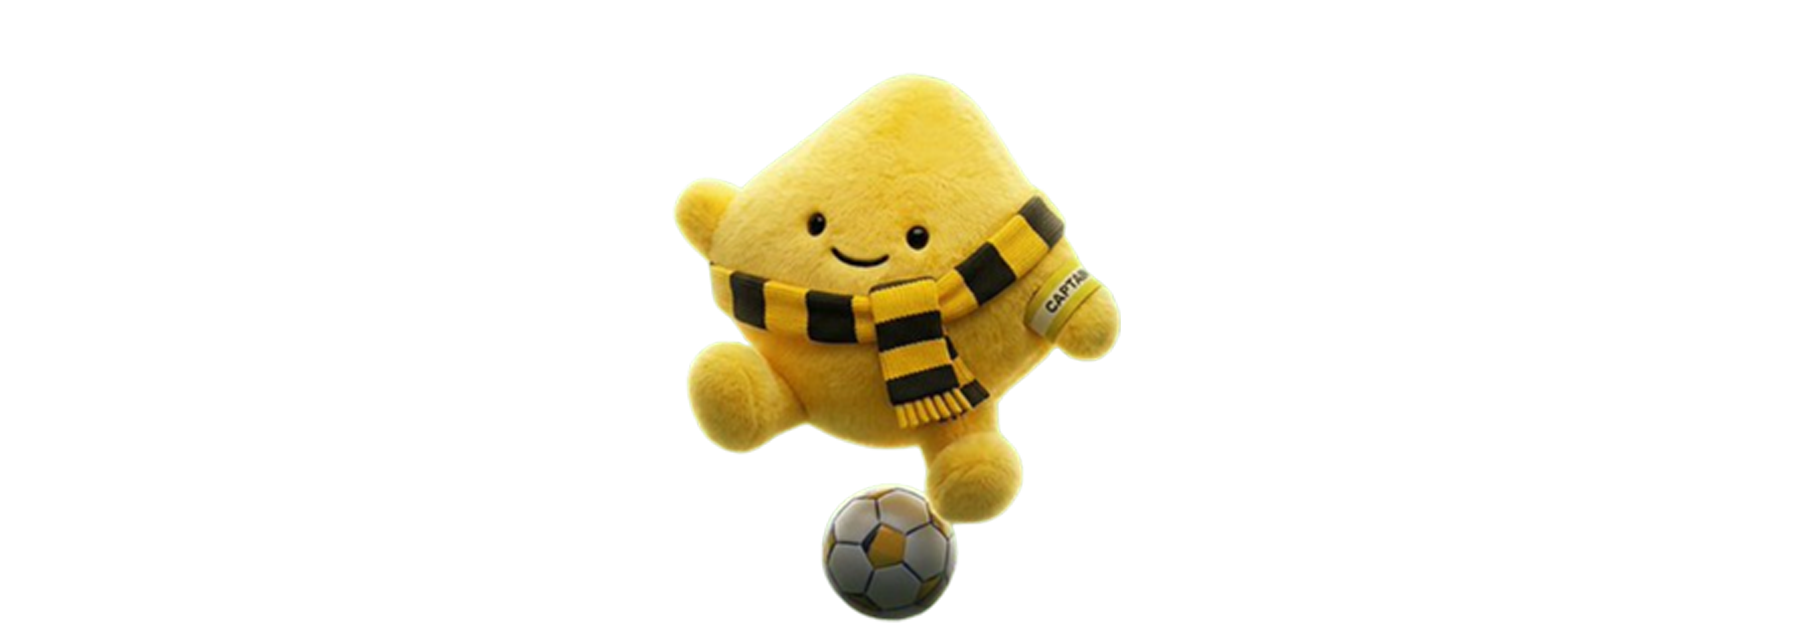
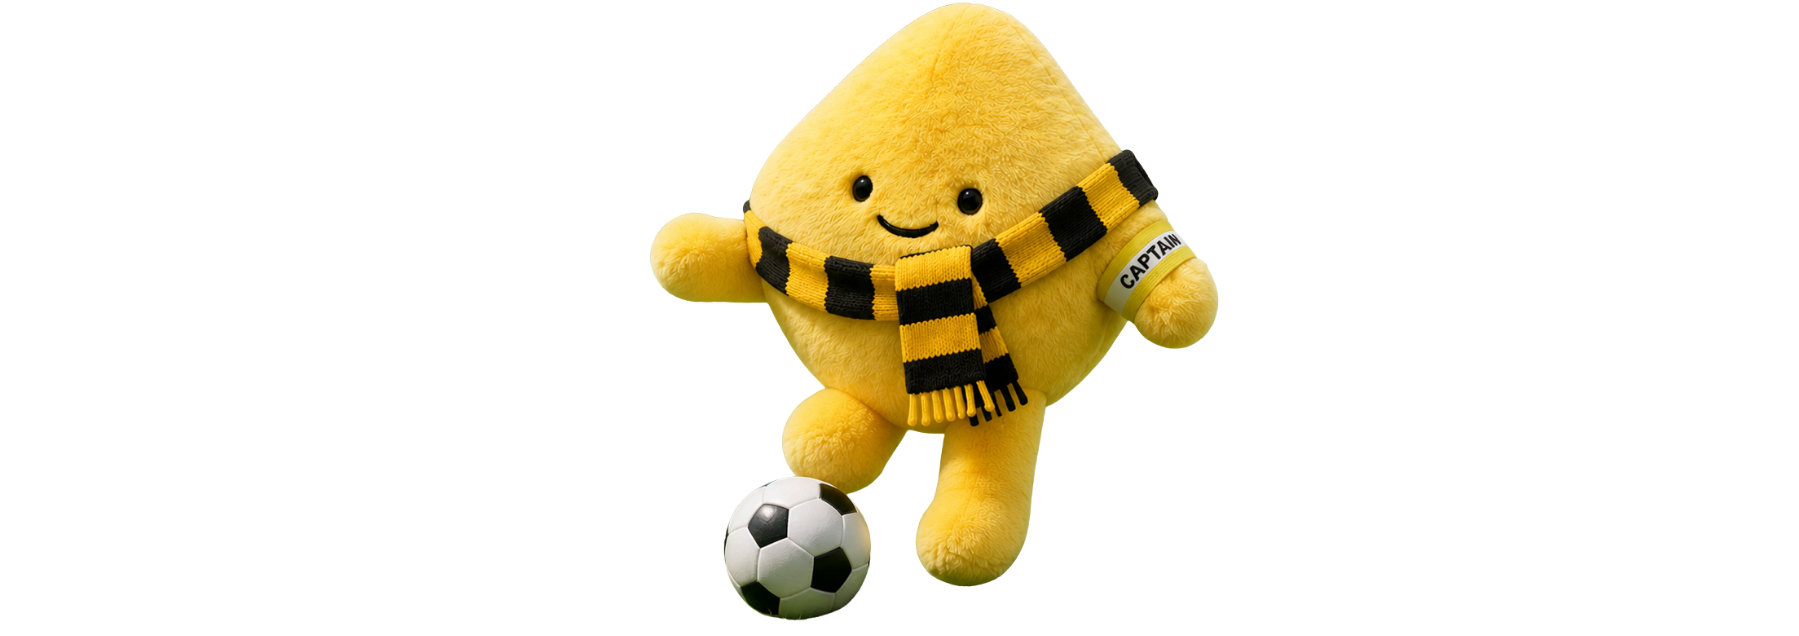
update

Changed region(s): [[0.3424, 0.0, 0.6848, 0.9858]]

diff --git a/index.html b/index.html
@@ -100,7 +100,7 @@
             </nav>
           </div>
           <a
-            href="https://pancakeswap.finance/swap?outputCurrency=0xcomingsoon"
+            href="https://pancakeswap.finance/swap?outputCurrency=0xF7c08Af0429179E75B6Ad04F1F61Fdb744BF8913"
             data-goto=".register"
             data-da=".menu__body, 991.98"
             class="header__button button"